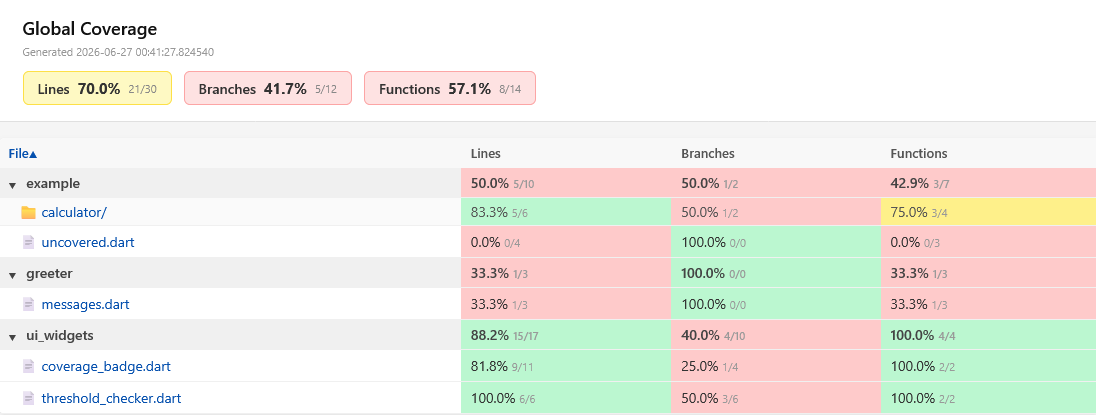
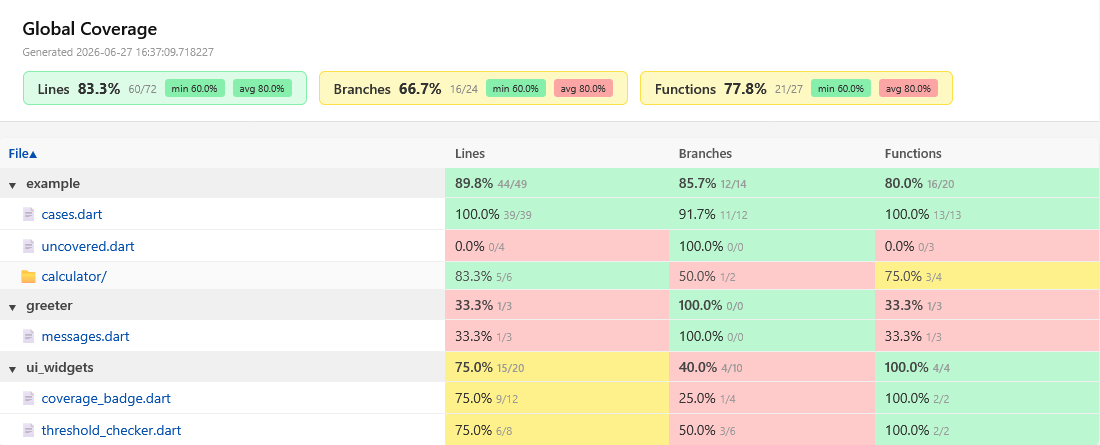
chore: Update screenshot link.

diff --git a/full_cover/CHANGELOG.md b/full_cover/CHANGELOG.md
@@ -1,3 +1,6 @@
-## 1.0.0
+## 1.0.1
+- chore: Update screenshot link.
 
+
+## 1.0.0
 - Initial version.

diff --git a/full_cover/README.md b/full_cover/README.md
@@ -4,7 +4,7 @@ Multi-package test coverage for Dart and Flutter projects.
 
 Runs tests across all packages, merges coverage data, and generates an HTML report with line, branch, and function coverage.
 
-![Coverage report screenshot](https://github.com/llfbandit/full_cover/blob/main/full_cover/doc/img/screen.png)
+![Coverage report screenshot](https://raw.githubusercontent.com/llfbandit/full_cover/refs/heads/main/full_cover/doc/img/screen.png)
 
 ---
 